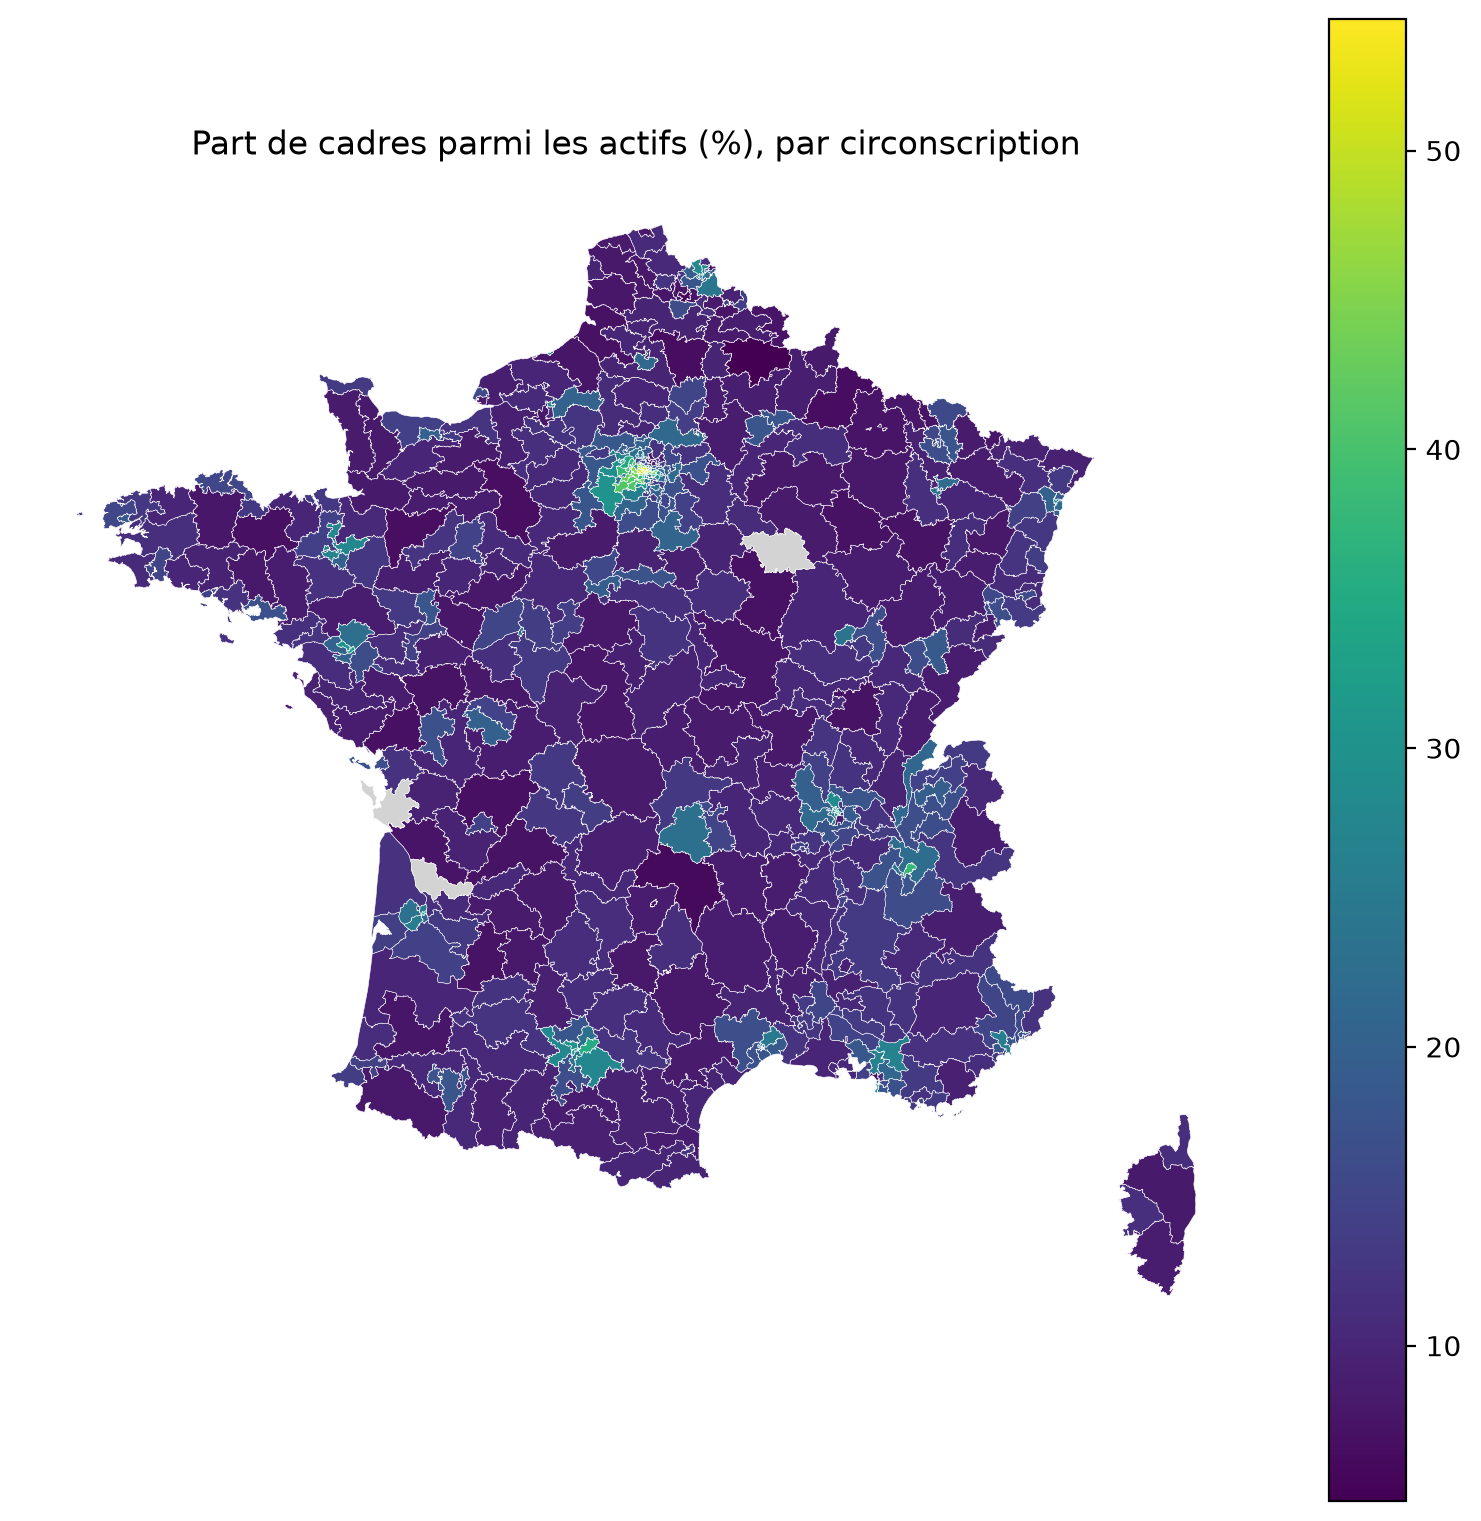
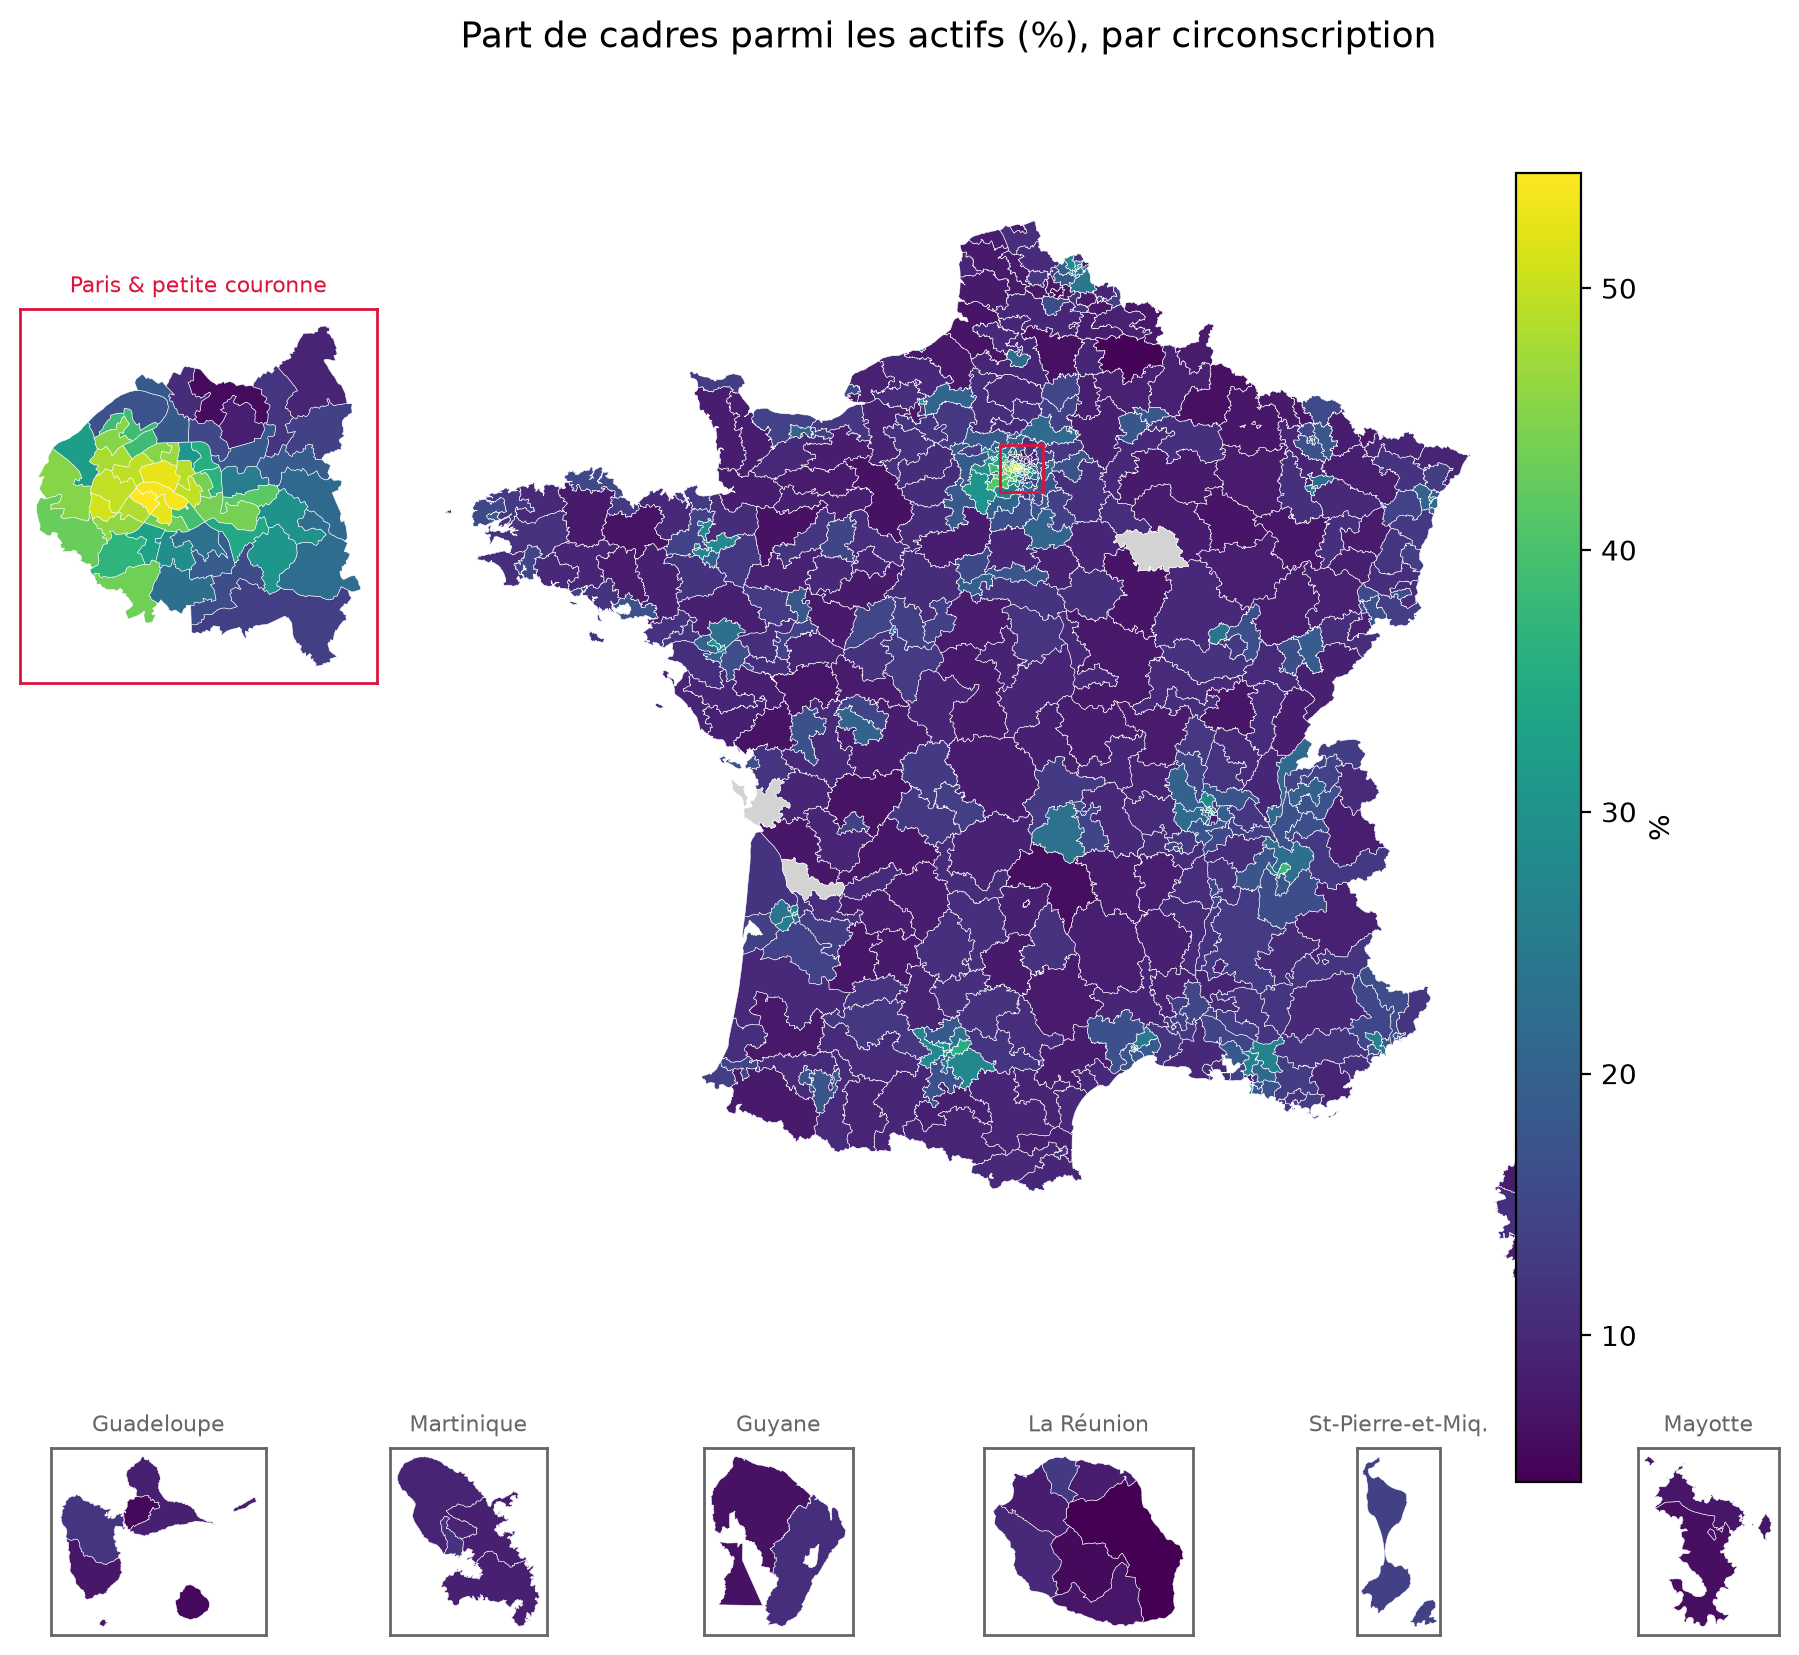
encats outre-mer et paris

diff --git a/cartes.py b/cartes.py
@@ -4,6 +4,7 @@ députés + indicateurs INSEE.
 """
 
 import matplotlib.pyplot as plt
+from matplotlib.patches import Patch, Rectangle
 
 from collecte_contours import charger_contours, gel_contours
 from descriptif import preparer_deputes
@@ -18,6 +19,27 @@ PREFIXES_OUTRE_MER = {
     "ZD": "974",  # La Réunion
     "ZS": "975",  # Saint-Pierre-et-Miquelon
     "ZM": "976",  # Mayotte
+}
+
+OUTRE_MER = [
+    ("971", "Guadeloupe"),
+    ("972", "Martinique"),
+    ("973", "Guyane"),
+    ("974", "La Réunion"),
+    ("975", "St-Pierre-et-Miq."),
+    ("976", "Mayotte"),
+]
+
+COULEURS_GROUPES = {
+    "RN": "#1f3b73",
+    "EPR": "#f2c94c",
+    "LFI-NFP": "#c0392b",
+    "SOC": "#e75480",
+    "DR": "#4a90d9",
+    "ECOS": "#2e8b57",
+    "DEM": "#f08a24",
+    "HOR": "#8fd3f4",
+    "Autres": "#8e6bbf",
 }
 
 
@@ -37,6 +59,7 @@ def ajouter_code_circo(contours):
     ]
     return g
 
+
 def preparer_carte():
     """Contours joints aux députés et aux indicateurs INSEE."""
     gel_contours()
@@ -50,73 +73,118 @@ def preparer_carte():
     )
 
 
-def carte_indicateur(carte, colonne, titre, cmap="viridis", vmax=None):
+def _nettoyer_encart(ax, titre, couleur="0.4"):
+    """Retire les graduations et les labels Longitude/Latitude d'un encart."""
+    ax.set_xlabel("")
+    ax.set_ylabel("")
+    ax.set_xticks([])
+    ax.set_yticks([])
+    ax.set_title(titre, fontsize=8, color=couleur)
+    for cote in ax.spines.values():
+        cote.set_edgecolor(couleur)
+        cote.set_linewidth(1)
+
+
+def ajouter_encarts(fig, ax_metro, carte, plot_func):
+    """Ajoute un zoom sur Paris/Petite Couronne et les encarts d'outre-mer."""
+    # Dégage de l'espace à gauche (Paris) et en bas (Outre-mer)
+    ax_metro.set_position([0.22, 0.16, 0.62, 0.75])
+
+    # 1. Encart Paris et petite couronne (75, 92, 93, 94) à gauche
+    paris = carte[carte["code_circo"].str[:2].isin(["75", "92", "93", "94"])]
+    xmin, ymin, xmax, ymax = paris.total_bounds
+    ax_metro.add_patch(Rectangle(
+        (xmin - 0.05, ymin - 0.05), xmax - xmin + 0.1, ymax - ymin + 0.1,
+        fill=False, edgecolor="crimson", linewidth=1
+    ))
+    ax_paris = fig.add_axes([0.03, 0.58, 0.19, 0.22])
+    plot_func(paris, ax_paris)
+    _nettoyer_encart(ax_paris, "Paris & petite couronne", couleur="crimson")
+
+    # 2. Encarts outre-mer en bas de la figure
+    for i, (dep, nom) in enumerate(OUTRE_MER):
+        drom = carte[carte["code_circo"].str[:3] == dep]
+        if len(drom) == 0:
+            continue
+        ax_om = fig.add_axes([0.04 + i * 0.155, 0.02, 0.13, 0.11])
+        plot_func(drom, ax_om)
+        _nettoyer_encart(ax_om, nom)
+
+
+def carte_indicateur(carte, colonne, titre, cmap="viridis", vmax=None, unite="%"):
     """Carte de la France métropolitaine colorée par un indicateur."""
     metro = carte[~carte["code_circo"].str[:2].isin(["97", "98", "99"])]
-    fig, ax = plt.subplots(figsize=(8, 8))
+    vmin = carte[colonne].min()
+    vmax_eff = carte[colonne].max() if vmax is None else vmax
+
+    fig, ax = plt.subplots(figsize=(10, 8.5))
     metro.plot(
         column=colonne, cmap=cmap, legend=True, edgecolor="white",
-        linewidth=0.2, ax=ax, vmax=vmax,
+        linewidth=0.2, ax=ax, vmin=vmin, vmax=vmax_eff,
+        legend_kwds={"label": unite} if unite else {},
         missing_kwds={"color": "lightgrey", "label": "Pas de données"},
     )
-    ax.set_title(titre)
+    fig.suptitle(titre, fontsize=13, y=0.97)
     if vmax is not None:
-        ax.text(0.5, 0.97, f"Échelle plafonnée à {vmax} %",
-                transform=ax.transAxes, ha="center", fontsize=9, color="gray")
+        fig.text(0.5, 0.935, f"Échelle plafonnée à {vmax} {unite}".strip(),
+                 ha="center", fontsize=9, color="gray")
     ax.set_axis_off()
-    fig.tight_layout()
+
+    ajouter_encarts(fig, ax, carte, lambda df, a: df.plot(
+        column=colonne, cmap=cmap, vmin=vmin, vmax=vmax_eff,
+        edgecolor="white", linewidth=0.2, ax=a,
+        missing_kwds={"color": "lightgrey"},
+    ))
     return fig
+
 
 def carte_genre(carte):
     """Carte de la France métropolitaine : genre du député par circonscription."""
     metro = carte[~carte["code_circo"].str[:2].isin(["97", "98", "99"])]
-    fig, ax = plt.subplots(figsize=(8, 8))
+    fig, ax = plt.subplots(figsize=(10, 8.5))
     metro.plot(
         column="genre", categorical=True, legend=True, edgecolor="white",
         linewidth=0.2, ax=ax, cmap="Set2",
         missing_kwds={"color": "lightgrey", "label": "Pas de député"},
     )
-    ax.set_title("Genre du député par circonscription (métropole)")
+    fig.suptitle("Genre du député par circonscription", fontsize=13, y=0.97)
     ax.set_axis_off()
-    fig.tight_layout()
+
+    ajouter_encarts(fig, ax, carte, lambda df, a: df.plot(
+        column="genre", categorical=True, cmap="Set2",
+        edgecolor="white", linewidth=0.2, ax=a,
+        missing_kwds={"color": "lightgrey"},
+    ))
     return fig
-
-from matplotlib.patches import Patch
-
-COULEURS_GROUPES = {
-    "RN": "#1f3b73",
-    "EPR": "#f2c94c",
-    "LFI-NFP": "#c0392b",
-    "SOC": "#e75480",
-    "DR": "#4a90d9",
-    "ECOS": "#2e8b57",
-    "DEM": "#f08a24",
-    "HOR": "#8fd3f4",
-    "Autres": "#8e6bbf",
-}
 
 
 def carte_groupes(carte):
     """Carte de la France métropolitaine : groupe politique du député."""
-    metro = carte[~carte["code_circo"].str[:2].isin(["97", "98", "99"])].copy()
-    groupe = metro["groupeAbrev"].where(
-        metro["groupeAbrev"].isin(COULEURS_GROUPES), "Autres"
+    carte = carte.copy()
+    groupe = carte["groupeAbrev"].where(
+        carte["groupeAbrev"].isin(COULEURS_GROUPES), "Autres"
     )
-    groupe = groupe.where(metro["groupeAbrev"].notna())
-    metro["couleur"] = groupe.map(COULEURS_GROUPES).fillna("lightgrey")
+    groupe = groupe.where(carte["groupeAbrev"].notna())
+    carte["couleur"] = groupe.map(COULEURS_GROUPES).fillna("lightgrey")
 
-    fig, ax = plt.subplots(figsize=(8, 8))
+    metro = carte[~carte["code_circo"].str[:2].isin(["97", "98", "99"])]
+    fig, ax = plt.subplots(figsize=(10, 8.5))
     metro.plot(color=metro["couleur"], edgecolor="white", linewidth=0.2, ax=ax)
 
     legende = [Patch(color=c, label=g) for g, c in COULEURS_GROUPES.items()]
     legende.append(Patch(color="lightgrey", label="Pas de député"))
-    ax.legend(handles=legende, loc="upper right", fontsize=8)
-    ax.set_title("Groupe politique du député par circonscription (métropole)")
+    ax.legend(handles=legende, bbox_to_anchor=(1.02, 1), loc="upper left", fontsize=8)
+    fig.suptitle("Groupe politique du député par circonscription", fontsize=13, y=0.97)
     ax.set_axis_off()
-    fig.tight_layout()
+
+    ajouter_encarts(fig, ax, carte, lambda df, a: df.plot(
+        color=df["couleur"], edgecolor="white", linewidth=0.2, ax=a
+    ))
     return fig
-    
+
+
 if __name__ == "__main__":
+    gel_contours()
     deputes, insee_indic, _, _ = charger_donnees()
     contours = ajouter_code_circo(charger_contours())
 
@@ -130,8 +198,13 @@ if __name__ == "__main__":
     carte = preparer_carte()
     print("Circonscriptions avec indicateur :", int(carte["act_cad"].notna().sum()))
 
-    fig = carte_indicateur(
-        carte, "act_cad", "Part de cadres parmi les actifs (%), par circonscription"
-    )
-    fig.savefig("carte_cadres.png", dpi=200, bbox_inches="tight")
-    plt.show()
+    for nom, fig in [
+        ("carte_cadres.png", carte_indicateur(
+            carte, "act_cad", "Part de cadres parmi les actifs (%), par circonscription"
+        )),
+        ("carte_genre.png", carte_genre(carte)),
+        ("carte_groupes.png", carte_groupes(carte)),
+    ]:
+        fig.savefig(nom, dpi=200, bbox_inches="tight")
+        plt.close(fig)
+        print("Carte enregistrée :", nom)
